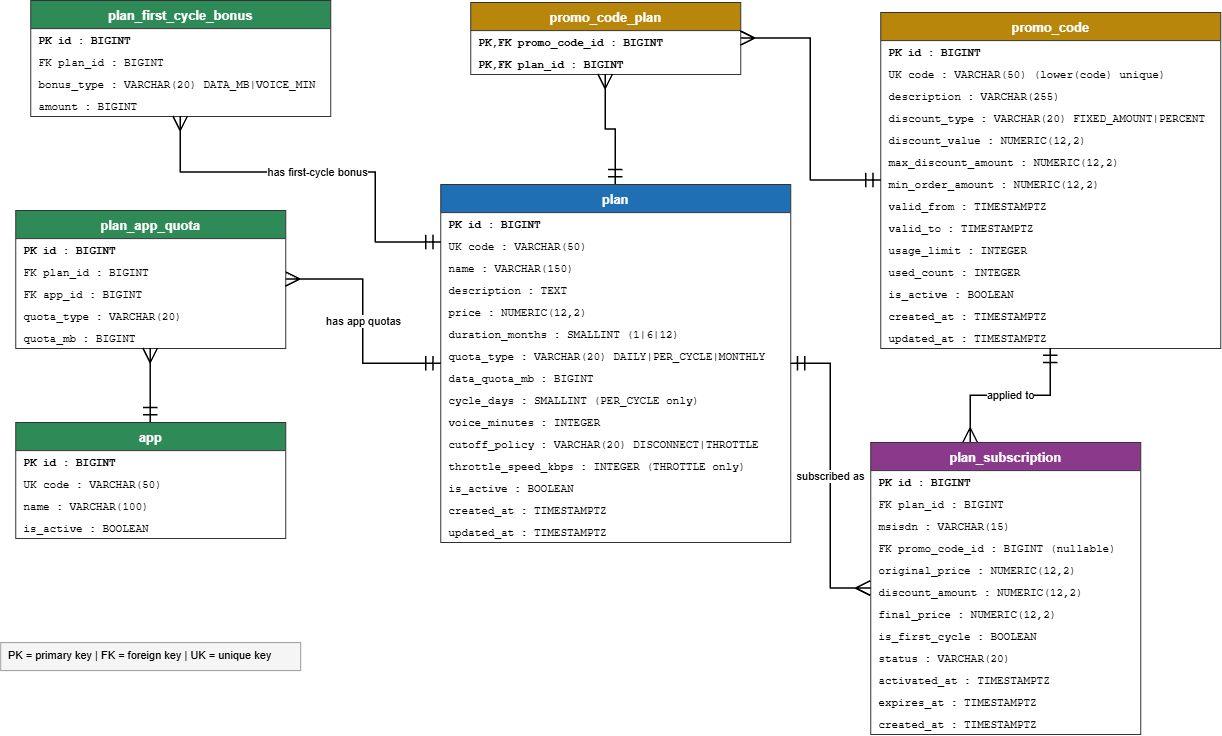
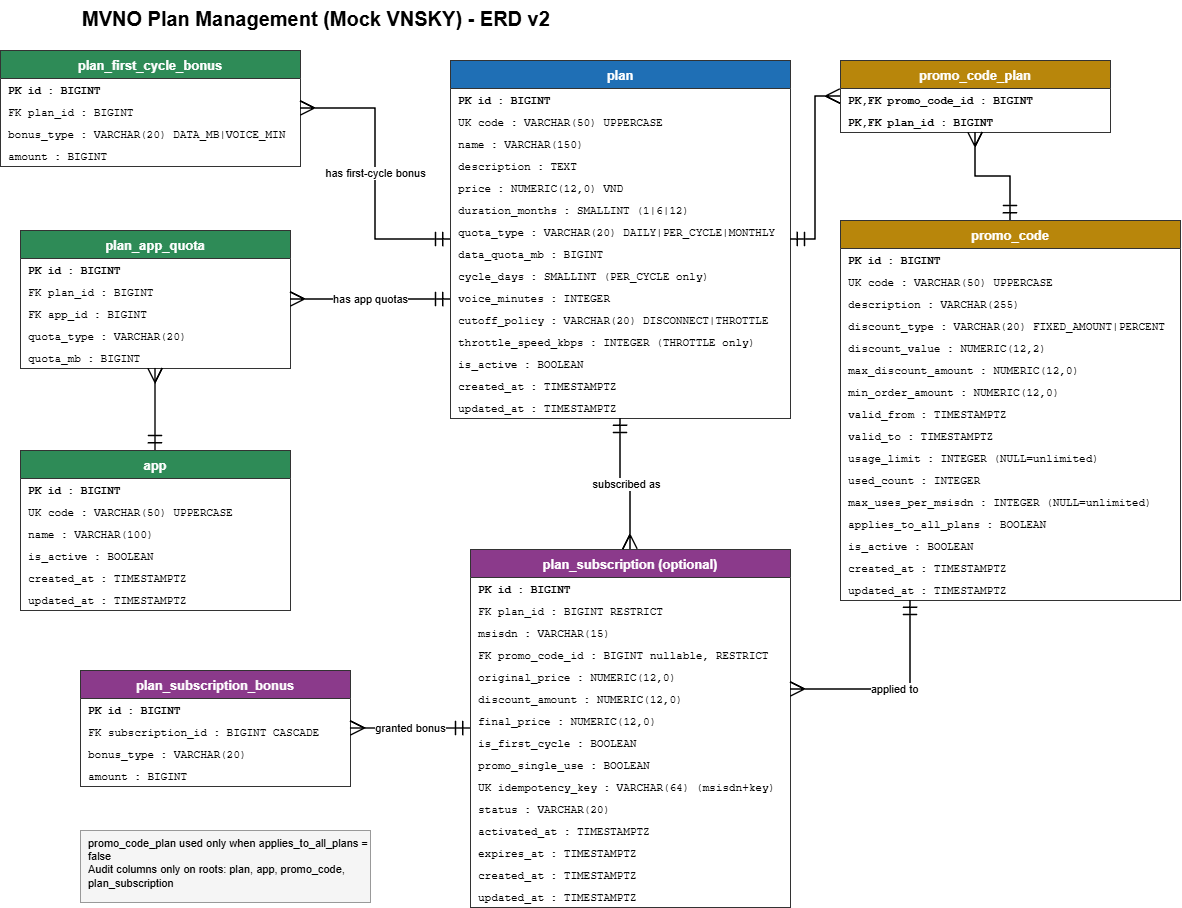
update erd along with basic entity

Changed region(s): [[0.0, 0.0, 1.0, 1.0], [0.9137, 0.9688, 0.9442, 1.0], [0.2132, 0.6562, 0.2437, 0.6875]]

diff --git a/src/main/java/org/example/adminsky/entity/PlanSubscription.java b/src/main/java/org/example/adminsky/entity/PlanSubscription.java
@@ -1,33 +1,66 @@
 package org.example.adminsky.entity;
 
-import lombok.Getter;
-import lombok.Setter;
-import lombok.NoArgsConstructor;
-
 import jakarta.persistence.*;
+import lombok.Getter;
+import lombok.NoArgsConstructor;
+import lombok.Setter;
 import org.example.adminsky.enums.SubscriptionStatus;
 
 import java.math.BigDecimal;
 import java.time.Instant;
+import java.util.LinkedHashSet;
+import java.util.Set;
 
 @Entity
-@Table(name = "plan_subscription")
+@Table(name = "plan_subscription", uniqueConstraints = @UniqueConstraint(
+        name = "uq_sub_idempotency", columnNames = {"msisdn", "idempotency_key"}))
 @Getter
 @Setter
 @NoArgsConstructor
-public class PlanSubscription {
-    @Id @GeneratedValue(strategy = GenerationType.IDENTITY) private Long id;
-    @ManyToOne(fetch = FetchType.LAZY, optional = false) @JoinColumn(name = "plan_id", nullable = false)
+public class PlanSubscription extends BaseAuditEntity {
+    @Id
+    @GeneratedValue(strategy = GenerationType.IDENTITY)
+    private Long id;
+
+    @ManyToOne(fetch = FetchType.LAZY, optional = false)
+    @JoinColumn(name = "plan_id", nullable = false)
     private Plan plan;
-    @Column(nullable = false, length = 15) private String msisdn;
-    @ManyToOne(fetch = FetchType.LAZY) @JoinColumn(name = "promo_code_id") private PromoCode promoCode;
-    @Column(name = "original_price", nullable = false, precision = 12, scale = 2) private BigDecimal originalPrice;
-    @Column(name = "discount_amount", nullable = false, precision = 12, scale = 2) private BigDecimal discountAmount = BigDecimal.ZERO;
-    @Column(name = "final_price", nullable = false, precision = 12, scale = 2) private BigDecimal finalPrice;
-    @Column(name = "is_first_cycle", nullable = false) private boolean firstCycle;
-    @Enumerated(EnumType.STRING) @Column(nullable = false, length = 20) private SubscriptionStatus status = SubscriptionStatus.ACTIVE;
-    @Column(name = "activated_at") private Instant activatedAt;
-    @Column(name = "expires_at") private Instant expiresAt;
-    @Column(name = "created_at", nullable = false, updatable = false) private Instant createdAt;
-    @PrePersist void onCreate() { if (createdAt == null) createdAt = Instant.now(); }
+
+    @Column(nullable = false, length = 15)
+    private String msisdn;
+
+    @ManyToOne(fetch = FetchType.LAZY)
+    @JoinColumn(name = "promo_code_id")
+    private PromoCode promoCode;
+
+    @Column(name = "original_price", nullable = false, precision = 12, scale = 0)
+    private BigDecimal originalPrice;
+
+    @Column(name = "discount_amount", nullable = false, precision = 12, scale = 0)
+    private BigDecimal discountAmount = BigDecimal.ZERO;
+
+    @Column(name = "final_price", nullable = false, precision = 12, scale = 0)
+    private BigDecimal finalPrice;
+
+    @Column(name = "is_first_cycle", nullable = false)
+    private boolean firstCycle;
+
+    @Column(name = "promo_single_use", nullable = false)
+    private boolean promoSingleUse;
+
+    @Column(name = "idempotency_key", nullable = false, length = 64)
+    private String idempotencyKey;
+
+    @Enumerated(EnumType.STRING)
+    @Column(nullable = false, length = 20)
+    private SubscriptionStatus status = SubscriptionStatus.ACTIVE;
+
+    @Column(name = "activated_at")
+    private Instant activatedAt;
+
+    @Column(name = "expires_at")
+    private Instant expiresAt;
+
+    @OneToMany(mappedBy = "subscription", cascade = CascadeType.ALL, orphanRemoval = true)
+    private Set<PlanSubscriptionBonus> grantedBonuses = new LinkedHashSet<>();
 }

diff --git a/src/main/java/org/example/adminsky/entity/PromoCode.java b/src/main/java/org/example/adminsky/entity/PromoCode.java
@@ -1,42 +1,65 @@
 package org.example.adminsky.entity;
 
-import lombok.Getter;
-import lombok.Setter;
-import lombok.NoArgsConstructor;
-
 import jakarta.persistence.*;
+import lombok.Getter;
+import lombok.NoArgsConstructor;
+import lombok.Setter;
 import org.example.adminsky.enums.DiscountType;
 
 import java.math.BigDecimal;
-import java.time.Instant;
+import java.util.LinkedHashSet;
+import java.util.Set;
 
 @Entity
-@Table(name = "promo_code")
+@Table(name = "promo_code", uniqueConstraints = @UniqueConstraint(name = "uq_promo_code", columnNames = "code"))
 @Getter
 @Setter
 @NoArgsConstructor
-public class PromoCode {
-    @Id @GeneratedValue(strategy = GenerationType.IDENTITY)
+public class PromoCode extends BaseAuditEntity {
+    @Id
+    @GeneratedValue(strategy = GenerationType.IDENTITY)
     private Long id;
+
     @Column(nullable = false, length = 50)
     private String code;
+
     @Column(length = 255)
     private String description;
-    @Enumerated(EnumType.STRING) @Column(name = "discount_type", nullable = false, length = 20)
+
+    @Enumerated(EnumType.STRING)
+    @Column(name = "discount_type", nullable = false, length = 20)
     private DiscountType discountType;
+
     @Column(name = "discount_value", nullable = false, precision = 12, scale = 2)
     private BigDecimal discountValue;
-    @Column(name = "max_discount_amount", precision = 12, scale = 2)
+
+    @Column(name = "max_discount_amount", precision = 12, scale = 0)
     private BigDecimal maxDiscountAmount;
-    @Column(name = "min_order_amount", nullable = false, precision = 12, scale = 2)
+
+    @Column(name = "min_order_amount", nullable = false, precision = 12, scale = 0)
     private BigDecimal minOrderAmount = BigDecimal.ZERO;
-    @Column(name = "valid_from") private Instant validFrom;
-    @Column(name = "valid_to") private Instant validTo;
-    @Column(name = "usage_limit") private Integer usageLimit;
-    @Column(name = "used_count", nullable = false) private Integer usedCount = 0;
-    @Column(name = "is_active", nullable = false) private boolean active = true;
-    @Column(name = "created_at", nullable = false, updatable = false) private Instant createdAt;
-    @Column(name = "updated_at", nullable = false) private Instant updatedAt;
-    @PrePersist void onCreate() { Instant now = Instant.now(); createdAt = now; updatedAt = now; }
-    @PreUpdate void onUpdate() { updatedAt = Instant.now(); }
+
+    @Column(name = "valid_from")
+    private java.time.Instant validFrom;
+
+    @Column(name = "valid_to")
+    private java.time.Instant validTo;
+
+    @Column(name = "usage_limit")
+    private Integer usageLimit;
+
+    @Column(name = "used_count", nullable = false)
+    private Integer usedCount = 0;
+
+    @Column(name = "max_uses_per_msisdn")
+    private Integer maxUsesPerMsisdn;
+
+    @Column(name = "applies_to_all_plans", nullable = false)
+    private boolean appliesToAllPlans = true;
+
+    @Column(name = "is_active", nullable = false)
+    private boolean active = true;
+
+    @OneToMany(mappedBy = "promoCode", cascade = CascadeType.ALL, orphanRemoval = true)
+    private Set<PromoCodePlan> applicablePlans = new LinkedHashSet<>();
 }

diff --git a/src/main/java/org/example/adminsky/entity/Plan.java b/src/main/java/org/example/adminsky/entity/Plan.java
@@ -1,53 +1,67 @@
 package org.example.adminsky.entity;
 
-import lombok.Getter;
-import lombok.Setter;
-import lombok.NoArgsConstructor;
-
 import jakarta.persistence.*;
+import lombok.Getter;
+import lombok.NoArgsConstructor;
+import lombok.Setter;
 import org.example.adminsky.enums.CutoffPolicy;
 import org.example.adminsky.enums.QuotaType;
 
 import java.math.BigDecimal;
-import java.time.Instant;
+import java.util.LinkedHashSet;
+import java.util.Set;
 
 @Entity
-@Table(name = "plan")
+@Table(name = "plan", uniqueConstraints = @UniqueConstraint(name = "uq_plan_code", columnNames = "code"))
 @Getter
 @Setter
 @NoArgsConstructor
-public class Plan {
-    @Id @GeneratedValue(strategy = GenerationType.IDENTITY)
+public class Plan extends BaseAuditEntity {
+    @Id
+    @GeneratedValue(strategy = GenerationType.IDENTITY)
     private Long id;
-    @Column(nullable = false, unique = true, length = 50)
+
+    @Column(nullable = false, length = 50)
     private String code;
+
     @Column(nullable = false, length = 150)
     private String name;
+
     @Column(columnDefinition = "text")
     private String description;
-    @Column(nullable = false, precision = 12, scale = 2)
+
+    @Column(nullable = false, precision = 12, scale = 0)
     private BigDecimal price;
+
     @Column(name = "duration_months", nullable = false)
     private Short durationMonths;
-    @Enumerated(EnumType.STRING) @Column(name = "quota_type", nullable = false, length = 20)
+
+    @Enumerated(EnumType.STRING)
+    @Column(name = "quota_type", nullable = false, length = 20)
     private QuotaType quotaType;
+
     @Column(name = "data_quota_mb", nullable = false)
     private Long dataQuotaMb;
+
     @Column(name = "cycle_days")
     private Short cycleDays;
+
     @Column(name = "voice_minutes", nullable = false)
     private Integer voiceMinutes = 0;
-    @Enumerated(EnumType.STRING) @Column(name = "cutoff_policy", nullable = false, length = 20)
+
+    @Enumerated(EnumType.STRING)
+    @Column(name = "cutoff_policy", nullable = false, length = 20)
     private CutoffPolicy cutoffPolicy;
+
     @Column(name = "throttle_speed_kbps")
     private Integer throttleSpeedKbps;
+
     @Column(name = "is_active", nullable = false)
     private boolean active = true;
-    @Column(name = "created_at", nullable = false, updatable = false)
-    private Instant createdAt;
-    @Column(name = "updated_at", nullable = false)
-    private Instant updatedAt;
 
-    @PrePersist void onCreate() { Instant now = Instant.now(); createdAt = now; updatedAt = now; }
-    @PreUpdate void onUpdate() { updatedAt = Instant.now(); }
+    @OneToMany(mappedBy = "plan", cascade = CascadeType.ALL, orphanRemoval = true)
+    private Set<PlanFirstCycleBonus> bonuses = new LinkedHashSet<>();
+
+    @OneToMany(mappedBy = "plan", cascade = CascadeType.ALL, orphanRemoval = true)
+    private Set<PlanAppQuota> appQuotas = new LinkedHashSet<>();
 }

diff --git a/src/main/java/org/example/adminsky/entity/App.java b/src/main/java/org/example/adminsky/entity/App.java
@@ -1,23 +1,26 @@
 package org.example.adminsky.entity;
 
-import lombok.Getter;
-import lombok.Setter;
-import lombok.NoArgsConstructor;
-
 import jakarta.persistence.*;
+import lombok.Getter;
+import lombok.NoArgsConstructor;
+import lombok.Setter;
 
 @Entity
-@Table(name = "app")
+@Table(name = "app", uniqueConstraints = @UniqueConstraint(name = "uq_app_code", columnNames = "code"))
 @Getter
 @Setter
 @NoArgsConstructor
-public class App {
-    @Id @GeneratedValue(strategy = GenerationType.IDENTITY)
+public class App extends BaseAuditEntity {
+    @Id
+    @GeneratedValue(strategy = GenerationType.IDENTITY)
     private Long id;
-    @Column(nullable = false, unique = true, length = 50)
+
+    @Column(nullable = false, length = 50)
     private String code;
+
     @Column(nullable = false, length = 100)
     private String name;
+
     @Column(name = "is_active", nullable = false)
     private boolean active = true;
 }

diff --git a/src/main/java/org/example/adminsky/entity/PlanSubscriptionBonus.java b/src/main/java/org/example/adminsky/entity/PlanSubscriptionBonus.java
@@ -1,0 +1,30 @@
+package org.example.adminsky.entity;
+
+import jakarta.persistence.*;
+import lombok.Getter;
+import lombok.NoArgsConstructor;
+import lombok.Setter;
+import org.example.adminsky.enums.BonusType;
+
+@Entity
+@Table(name = "plan_subscription_bonus", uniqueConstraints = @UniqueConstraint(
+        name = "uq_sub_bonus", columnNames = {"subscription_id", "bonus_type"}))
+@Getter
+@Setter
+@NoArgsConstructor
+public class PlanSubscriptionBonus {
+    @Id
+    @GeneratedValue(strategy = GenerationType.IDENTITY)
+    private Long id;
+
+    @ManyToOne(fetch = FetchType.LAZY, optional = false)
+    @JoinColumn(name = "subscription_id", nullable = false)
+    private PlanSubscription subscription;
+
+    @Enumerated(EnumType.STRING)
+    @Column(name = "bonus_type", nullable = false, length = 20)
+    private BonusType bonusType;
+
+    @Column(nullable = false)
+    private Long amount;
+}

diff --git a/src/main/java/org/example/adminsky/entity/BaseAuditEntity.java b/src/main/java/org/example/adminsky/entity/BaseAuditEntity.java
@@ -1,0 +1,32 @@
+package org.example.adminsky.entity;
+
+import jakarta.persistence.Column;
+import jakarta.persistence.MappedSuperclass;
+import jakarta.persistence.PrePersist;
+import jakarta.persistence.PreUpdate;
+import lombok.Getter;
+
+import java.time.Instant;
+
+/** Audit timestamps shared by aggregate root entities. */
+@MappedSuperclass
+@Getter
+public abstract class BaseAuditEntity {
+    @Column(name = "created_at", nullable = false, updatable = false)
+    private Instant createdAt;
+
+    @Column(name = "updated_at", nullable = false)
+    private Instant updatedAt;
+
+    @PrePersist
+    protected void onCreate() {
+        Instant now = Instant.now();
+        createdAt = now;
+        updatedAt = now;
+    }
+
+    @PreUpdate
+    protected void onUpdate() {
+        updatedAt = Instant.now();
+    }
+}

diff --git a/src/main/java/org/example/adminsky/entity/PlanAppQuota.java b/src/main/java/org/example/adminsky/entity/PlanAppQuota.java
@@ -17,7 +17,7 @@ public class PlanAppQuota {
     private Long id;
     @ManyToOne(fetch = FetchType.LAZY, optional = false) @JoinColumn(name = "plan_id", nullable = false)
     private Plan plan;
-    @ManyToOne(fetch = FetchType.LAZY, optional = false) @JoinColumn(name = "app_id", nullable = false)
+    @ManyToOne(fetch = FetchType.LAZY, optional = false) @JoinColumn(name = "app_id", nullable = false, foreignKey = @ForeignKey(name = "fk_plan_app_quota_app"))
     private App app;
     @Enumerated(EnumType.STRING) @Column(name = "quota_type", nullable = false, length = 20)
     private QuotaType quotaType;

diff --git a/src/main/java/org/example/adminsky/enums/PromoReasonCode.java b/src/main/java/org/example/adminsky/enums/PromoReasonCode.java
@@ -1,0 +1,12 @@
+package org.example.adminsky.enums;
+
+public enum PromoReasonCode {
+    NOT_FOUND,
+    INACTIVE,
+    NOT_STARTED,
+    EXPIRED,
+    EXHAUSTED,
+    USER_LIMIT_REACHED,
+    NOT_APPLICABLE,
+    MIN_ORDER_NOT_MET
+}
